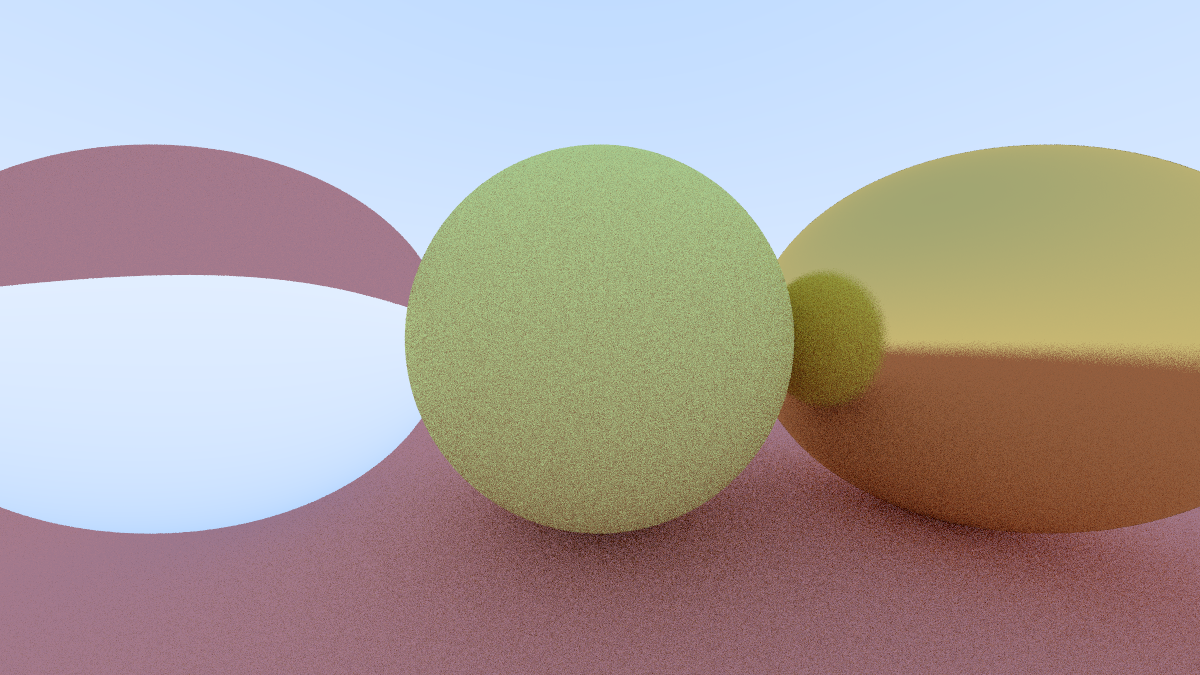
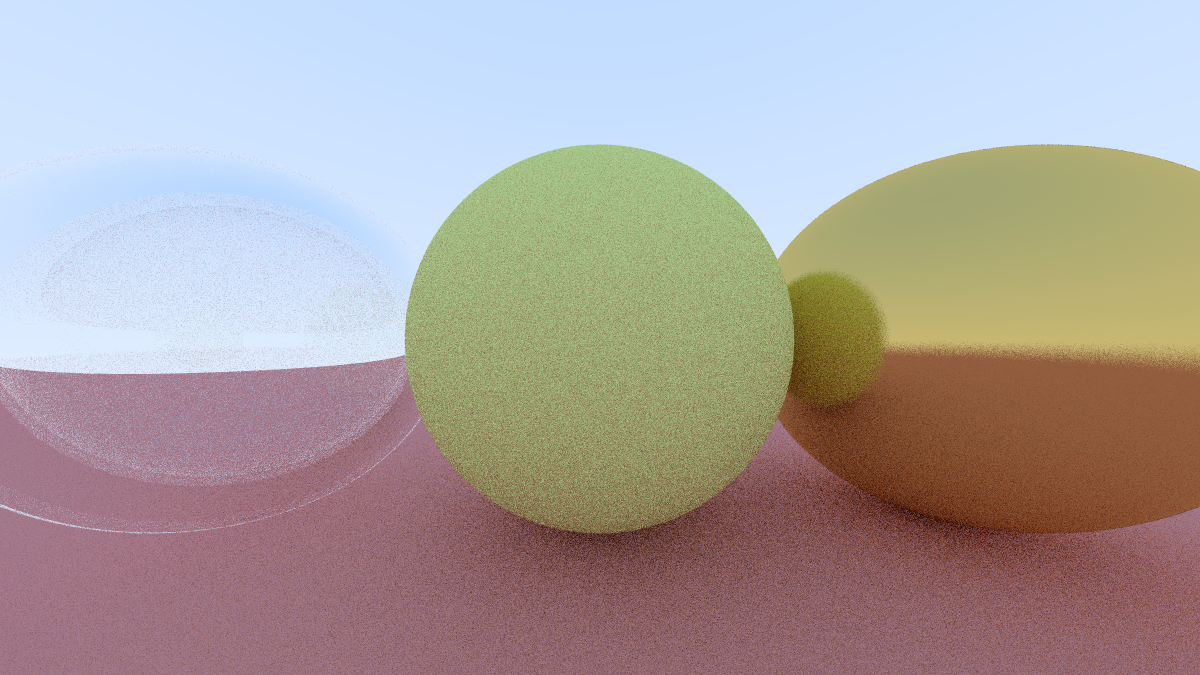
update

Changed region(s): [[0.0, 0.1867, 1.0, 1.0], [0.8325, 0.4978, 0.8942, 0.5289], [0.9867, 0.5289, 1.0, 0.56]]

diff --git a/src/material.rs b/src/material.rs
@@ -1,4 +1,6 @@
-use crate::{color::Color, ray::Ray, sphere::HitRecord, utils::random_in_unit_sphere, vec3::*};
+use crate::{
+    color::Color, ray::Ray, sphere::HitRecord, utils::random_in_unit_sphere, utils::*, vec3::*,
+};
 
 pub trait Material {
     fn scatter(&self, ray: &Ray, rec: &HitRecord, color: &mut Color, scattered: &mut Ray) -> bool;
@@ -58,6 +60,11 @@ impl Dielectric {
     pub fn new(_refracted: f64) -> Self {
         Self { ir: _refracted }
     }
+
+    fn reflectance(cosine: f64, ref_index: f64) -> f64 {
+        let r0 = ((1.0 - ref_index) / (1.0 + ref_index)).powi(2);
+        r0 + (1.0 - r0) * (1.0 - cosine).powi(5)
+    }
 }
 
 impl Material for Dielectric {
@@ -80,11 +87,14 @@ impl Material for Dielectric {
             Vec3::dot(Vec3::new(0.0, 0.0, 0.0) - ray.dir, rec.normal),
             1.0,
         );
-        let _sin_theta = (1.0 - _cos_theta).sqrt();
+        let _sin_theta = (1.0 - _cos_theta.powi(2)).sqrt();
 
         let mut direction = Vec3::default();
+        let cannot_refract = _refaction_ratio * _sin_theta > 1.0;
 
-        if _refaction_ratio * _sin_theta > 1.0 {
+        if cannot_refract
+            || Dielectric::reflectance(_cos_theta, _refaction_ratio) > get_random_number()
+        {
             direction = _unit_dir.reflect(rec.normal);
         } else {
             direction = _unit_dir.refract(rec.normal, _refaction_ratio);

diff --git a/src/main.rs b/src/main.rs
@@ -31,6 +31,7 @@ fn main() {
     let center = Box::new(Lambertian::new(Color::new(0.7, 0.8, 0.3)));
     //klet center = Box::new(Dielectric::new(1.5));
     let material_left = Box::new(Dielectric::new(1.5));
+    let material_left_2 = Box::new(Dielectric::new(1.5));
     //let material_left = Box::new(Metal::new(Color::new(0.8, 0.8, 0.8), 1.0));
     let material_right = Box::new(Metal::new(Color::new(0.8, 0.6, 0.2), 0.1));
 
@@ -49,6 +50,12 @@ fn main() {
         Vec3::new(-1.0, 0.0, -1.0),
         0.5,
         Some(material_left),
+    )));
+
+    world.add(Box::new(Sphere::new(
+        Vec3::new(-1.0, 0.0, -1.0),
+        -0.4,
+        Some(material_left_2),
     )));
 
     world.add(Box::new(Sphere::new(

diff --git a/src/camera.rs b/src/camera.rs
@@ -1,5 +1,6 @@
 use super::ray::*;
 use super::vec3::*;
+use std::f64::consts::*;
 
 pub struct Camera {
     pub orig: Vec3,
@@ -9,7 +10,8 @@ pub struct Camera {
 }
 
 impl Camera {
-    pub fn new() -> Self {
+    pub fn new(vfov: f64, aspect_ratio: f64) -> Self {
+        let theta = vfov * PI / 180.0;
         let ratio = 16.0 / 9.0;
         let viewport_height = 2.0;
         let viewport_width = ratio * viewport_height;
